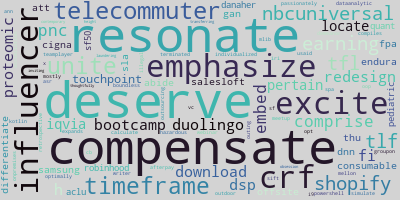
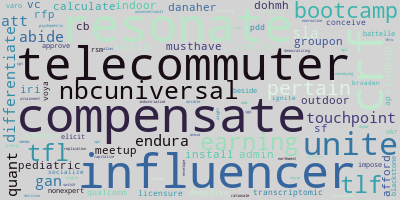
finished parsing monograms down to traditionally

diff --git a/nlp_main.py b/nlp_main.py
@@ -883,11 +883,63 @@ def clean_for_nlp(series_of_interest):
                                             'junction', 'covidrelated', 'fivetran', 'glass', 'amplified', 'cosmetic', 'ara',
                                             'discussing', 'modified', 'gold', 'genesys', 'axon', 'distributor', 'paternity',
                                             'helm', 'removing', 'comprises', 'timeoff', 'missile', 'rx', 'agentbased',
-                                            'rollupyoursleeves', 'bad', 'hawkeye', 'postcovid19', 'careful', '4th',
+                                            'rollupyoursleeves', 'bad', 'hawkeye', 'postcovid19', 'careful', '4th', 'tour',
                                             'forwardlooking', 'indication', 'sourced', 'tumor', 'yearly', 'socioeconomic',
                                             'tissue', 'exponentially', 'enthusiast', 'ac', 'ea', 'honor', 'headphone', 'dealer',
                                             'icon', 'giant', 'wfh', 'outcomesis', 'walmarts', 'welldefined',  'mainstream',
-                                            'forensics', 'fault', 'ix', 'firmware']))) + ds_skills_combined
+                                            'forensics', 'fault', 'ix', 'firmware', 'replication', 'envelope', 'decisive',
+                                            'con', 'contingency', 'unknown', 'venmo', 'klas', 'switch', 'alias', 'bytedance',
+                                            'abide', '365', 'democratizing', 'injury', 'rationale', 'compiled', 'taxonomy',
+                                            'sgo', 'designation', 'greatly', 'precedence', 'couple', 'conveying', 'young', 'ce',
+                                            'brainstorming', 'unconventional', 'compensates', 'relativity', 'thinktank',
+                                            'capitalize', 'attainment', 'darpa', 'industrystandard', 'rigorously', 'ego', 'badge',
+                                            'bitfury', 'honoring', 'laptop', 'wine', 'paris', 'northwest', 'alienage', 'eliciting',
+                                            'sustainably', 'ticketing', 'commutable', 'weighting', 'influenza', 'usaid',
+                                            'valueadded', 'counting', 'nonroutine', 'modernizing', 'healthsafety', 'pertains',
+                                            'hone', 'unicorn', 'plain', 'carnegie', 'microscopy', 'microsofts', 'phenomenal',
+                                            'investigates', 'biomarkers', 'fiscal', 'interpretability', '4year', 'nyu', 'nist',
+                                            'printer', 'frictionless', 'tokyo', 'csuite', 'telecommuter', 'queue', 'impose',
+                                            'dean', 'alumnus', '55', 'browse', 'sought', 'seniority', 'nbcuniversal', 'copyright',
+                                            'calculate', 'blackstone', 'discovered', 'temperature',  'beam', 'cpt', 'versus',
+                                            'sold', 'aa', 'hugging', 'fullest', 'reengineering', 'qualcomm', 'ida', 'non',
+                                            'elevating', 'hill', 'est', 'collegial', 'closeknit', 'dohmh', 'brown', 'mt',
+                                            'morning', 'affected', 'newlyhired', 'blockchains', 'commuting', 'coursera',
+                                            'standardizing', 'floating', 'recurrent', 'scan', 'refactor', 'att', 'incubation',
+                                            'broadcast', 'easytouse', 'tsa', 'doc', 'renowned', 'usc', 'lived', 'indicated',
+                                            'xenai', 'split', 'methodical', 'machinery', 'double', 'momentum', 'cruise', 'prism',
+                                            'rcm', 'firmly', 'print', 'danaher', 'voya', 'robotaxi', 'honeywell', 'nearterm',
+                                            'deviation', 'maturing', 'nestle', 'studying', 'promptly', 'industrialize', 'amp',
+                                            'dynamically', 'notion', 'socialize', 'translator', 'ggv', 'epidemiological',
+                                            'caterpillar', 'situated', 'reservist', 'sophistication', 'enterpriselevel', 'jointly',
+                                            'participated', 'thru', 'recover', 'nonexperts', 'wellrounded', 'appearance', 'notch',
+                                            'courageous', 'dispersed', 'regeneron', 'chop', 'layout', 'sf', 'twin', 'appliance', 
+                                            'businesscritical', 'atlantic', 'released', 'fearless', 'amenity', 'musthave', '2nd',
+                                            'cornell', 'bosch', 'dirty', 'suggesting', 'admin', 'imperfect', 'pharmacology',
+                                            'juggle', 'ingredient', 'relay', 'se', 'learningbased', 'broaden', 'tradecraft',
+                                            'pharmacist', 'bicycle', 'extracted', 'formulates', 'okrs', 'european', 'crossborder',
+                                            'flc', 'arbor', 'humancentric', 'roc', 'kit', 'breakdown', 'bia', 'mixture', 'daysweek',
+                                            'humancentered', 'uniformed', 'wellstructured', 'cambium', 'medicaldentalvision',
+                                            'qualificationsrequirements', 'tapping', 'cisco', 'upstream', '200000', 'oak', 'viewed',
+                                            'centre', 'gaithersburg', 'queuing', 'exactly', 'ireland', 'japan', 'harmonization',
+                                            'tfls', 'exact', 'suggests', 'activate', 'emergent', 'goaloriented', 'esg', 'equip',
+                                            '71', 'thereof', 'litigation', 'xpo', 'oneyear', 'newer', 'solar', 'e2e', 'multiint',
+                                            'uiux', 'curating', 'strongest', 'delighting', 'refers', 'tim', 'displayed', 'dw',
+                                            'nci', 'boast', 'sd', 'standalone', 'similarly', 'sort', 'resonate', 'cataloging',
+                                            'outofthebox', 'interplay', 'reshape', 'dominated', 'march', 'preconfigured', 'herein',
+                                            'impression', 'trader', 'ppd', 'dsd', 'systematically', '68', 'preexisting', 'sony',
+                                            'traveling', 'impacted', 'hispanic', 'publicis', 'varo', 'accidental', 'court',
+                                            'carta', 'hottest', 'gameplay', 'likeminded', 'uw', 'rethink', 'positivity',
+                                            'venturebacked', 'hosting', 'peak', 'alto', 'migrate', 'highvisibility', 'resumecv',
+                                            'companysponsored', 'allowable', 'um', 'laic', 'grammarlys', 'orise', 'equivalency',
+                                            'mercy', 'fmla', 'aggregated', 'std', 'businessesagencies', 'apogee', 'clientowned',
+                                            'elicit', 'deepmind', 'fsp', 'ambassador', 'requisite', 'foremost', 'tdd',
+                                            'missionfocused', 'creatives', 'pearsonplccom', 'princeton', 'bristol', 'serverside',
+                                            'apco', 'httpwwwpearsoncomcareersdiversityandinclusionhtml', 'hairstyle',
+                                            'underwriter', 'ending', 'conceptualization', 'ignite', 'ph', 'hca', 'steer',
+                                            'hampshire', 'verizons', 'mitigating', 'syndicated', 'ball', 'xandr', '65',
+                                            'tabular', 'abstraction', 'adjusting', 'alight', 'vancouver', 'grammar', 'valuing',
+                                            'thursdayfriday', 'smile', 'conceive', 'baseball', 'deere', 'eventually', 'vernacular',
+                                            'macys', 'differentiate', 'install', 'actuary', 'traditionally']))) + ds_skills_combined
     
     stop_words = nltk.corpus.stopwords.words('english') + additional_stopwords + ds_cred_terms + ds_prof_skill_terms + ds_soft_skill_terms + ds_tech_skill_terms
     
@@ -1198,6 +1250,7 @@ ds_cred_terms = ['ability',
                  'biostatisticians',
                  'biotech',
                  'biotechnology',
+                 'bootcamps',
                  'bsba',
                  'bsc',
                  'bsms',
@@ -1298,8 +1351,10 @@ ds_cred_terms = ['ability',
                  'sciencedata',
                  'scienceengineering',
                  'scientist',
+                 'secretsci',
                  'security', 
                  'service',
+                 'soa',
                  'social',
                  'software',
                  'solid', 
@@ -1358,6 +1413,8 @@ ds_tech_skill_terms = ['ab',
                      'analyzes',
                      'analyzing',
                      'anomaly', 
+                     'anova',
+                     'ansible',
                      'apache', 
                      'api',
                      'apis',
@@ -1387,6 +1444,7 @@ ds_tech_skill_terms = ['ab',
                      'automl',
                      'aws', 
                      'azure',
+                     'bandit',
                      'bash',
                      'batch',
                      'bayes',
@@ -1398,6 +1456,7 @@ ds_tech_skill_terms = ['ab',
                      'bigquery',
                      'bitbucket',
                      'blockchain',
+                     'bokeh',
                      'boosting',
                      'breakthrough',
                      'build', 
@@ -1409,6 +1468,7 @@ ds_tech_skill_terms = ['ab',
                      'causal', 
                      'center',
                      'cicd',
+                     'chain',
                      'chart',
                      'chatbot',
                      'chatbots',
@@ -1419,6 +1479,7 @@ ds_tech_skill_terms = ['ab',
                      'cleansing',
                      'cloud', 
                      'cloudbased',
+                     'cloudera',
                      'cloudnative',
                      'cloudready',
                      'cluster',
@@ -1472,13 +1533,16 @@ ds_tech_skill_terms = ['ab',
                      'data',
                      'dataanalytics',
                      'databricks',
+                     'datacomputing',
                      'datadriven',
+                     'dataoriented',
                      'datarobot',
                      'datascience',
                      'dataset',
                      'datasets',
                      'database',
                      'databased',
+                     'dax',
                      'debug',
                      'debugging',
                      'decision', 
@@ -1538,6 +1602,7 @@ ds_tech_skill_terms = ['ab',
                      'estimation',
                      'etl',
                      'etlelt',
+                     'etls',
                      'evaluate',
                      'evaluation',
                      'evidence',
@@ -1576,6 +1641,7 @@ ds_tech_skill_terms = ['ab',
                      'geographic',
                      'geographical',
                      'geographically',
+                     'geoint',
                      'geospatial',
                      'gcp',
                      'ggplot',
@@ -1597,15 +1663,18 @@ ds_tech_skill_terms = ['ab',
                      'gtm',
                      'h2o',
                      'hadoop',
+                     'hana',
                      'hardware',
                      'hbase',
                      'hdfs',
                      'hidden',
                      'hierarchical',
                      'highdimensional',
+                     'highdimensionality',
                      'highperformance',
                      'hive',
                      'hpc',
+                     'hpcml',
                      'html', 
                      'hyperparameter',
                      'hypothesis', 
@@ -1664,6 +1733,7 @@ ds_tech_skill_terms = ['ab',
                      'latest',
                      'leadingedge',
                      'learning',
+                     'learningai',
                      'learningartificial',
                      'learningdeep',
                      'lex',
@@ -1692,6 +1762,7 @@ ds_tech_skill_terms = ['ab',
                      'map',
                      'mapping',
                      'mapreduce',
+                     'markov',
                      'math',
                      'mathematical',
                      'mathematics',
@@ -1733,8 +1804,11 @@ ds_tech_skill_terms = ['ab',
                      'mongo',
                      'mongodb',
                      'monte',
+                     'multiarm',
+                     'multiarmed',
                      'multidimensional',
                      'multivariate',
+                     'munging',
                      'mxnet',
                      'mysql',
                      'naive', 
@@ -1765,8 +1839,10 @@ ds_tech_skill_terms = ['ab',
                      'objectoriented',
                      'office',
                      'ontology',
+                     'oozie',
                      'open', 
                      'opencv',
+                     'openshift',
                      'opensource',
                      'optical',
                      'optimal',
@@ -1787,6 +1863,7 @@ ds_tech_skill_terms = ['ab',
                      'pattern', 
                      'pca',
                      'pearson',
+                     'pearsons',
                      'periscope',
                      'perl',
                      'petabyte',
@@ -1846,11 +1923,13 @@ ds_tech_skill_terms = ['ab',
                      'recognition',
                      'recommendation', 
                      'recommender',
+                     'recommenders',
                      'redis',
                      'redshift', 
                      'reduction',
                      'regression',
                      'reinforcement',
+                     'rekognition',
                      'relational',
                      'relationship',
                      'remote', 
@@ -1871,6 +1950,7 @@ ds_tech_skill_terms = ['ab',
                      'rshiny',
                      'rstudio',
                      'ruby',
+                     'rust',
                      's3', 
                      'sa',
                      'sasmacro',
@@ -1914,6 +1994,7 @@ ds_tech_skill_terms = ['ab',
                      'sensing', 
                      'sensitivity',
                      'sentiment',
+                     'seo',
                      'series',
                      'server',
                      'service',
@@ -2001,6 +2082,7 @@ ds_tech_skill_terms = ['ab',
                      'tree',
                      'trend',
                      'tsql',
+                     'typescript',
                      'uncover', 
                      'unix',
                      'unstructured',
@@ -2017,6 +2099,7 @@ ds_tech_skill_terms = ['ab',
                      'visualize',
                      'visualization',
                      'visualizing',
+                     'visualizingpresenting',
                      'visuals',
                      'vmware',
                      'volume',
@@ -2143,6 +2226,7 @@ ds_soft_skill_terms = ['ad',
                      'highly', 
                      'hoc', 
                      'holistic',
+                     'holistically', 
                      'idea',
                      'jira', 
                      'impact',
@@ -2282,6 +2366,7 @@ ds_soft_skill_terms = ['ad',
                      'verbalwritten',
                      'verbally',
                      'versatile',
+                     'visualizingpresenting',
                      'willingness', 
                      'write',
                      'writing',
@@ -2380,6 +2465,7 @@ ds_prof_skill_terms = ['ability',
                        'innovative',
                        'insight',
                        'interdisciplinary',
+                       'jaic',
                        'kanban',
                        'knowledge',
                        'lead',
